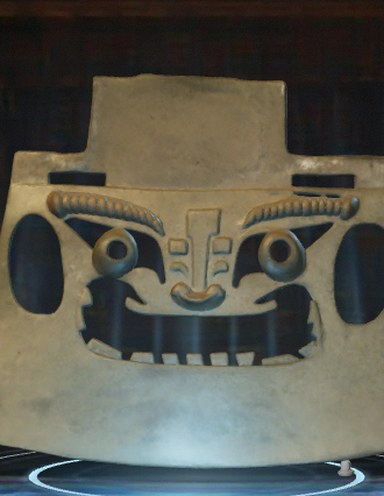
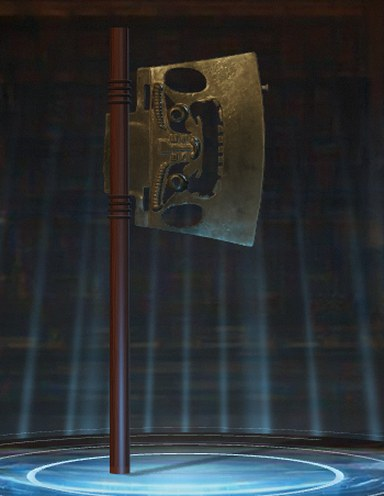
Shang yue: cinematic bronze, reconstructed wooden haft with cord bindings, true-to-life proportions
Claude-Session: https://claude.ai/code/session_01WmiZZA7jwr2YKYoXZXng2Z

diff --git a/shang-yue/index.html b/shang-yue/index.html
@@ -156,7 +156,7 @@ svg.lines{position:absolute;inset:0;width:100%;height:100%;pointer-events:none;o
   <section class="panel" id="inter">
     <h2><svg viewBox="0 0 32 32"><path d="M13 17V6a2 2 0 0 1 4 0v8m0-1a2 2 0 0 1 4 0v2m0-1a2 2 0 0 1 4 0v6c0 5-3 8-8 8s-7-2-9-6l-3-5a2 2 0 0 1 3-2l3 3"/></svg>Student Interaction<button class="grow" type="button" aria-label="Make this card bigger" title="Make bigger"><svg viewBox="0 0 24 24"><path d="M14 4h6v6M10 20H4v-6M20 4l-7 7M4 20l7-7"/></svg></button></h2>
     <button class="irow" data-do="spin"><svg viewBox="0 0 24 24"><circle cx="10" cy="10" r="6"/><path d="M15 15l6 6"/></svg><span><b>Rotate &amp; Explore:</b> Look through the open eyes and mouth of the face.</span></button>
-    <button class="irow" data-do="zoom"><svg viewBox="0 0 24 24"><path d="M12 3 3 8l9 5 9-5zM3 12l9 5 9-5M3 16l9 5 9-5"/></svg><span><b>Zoom In:</b> Find the teeth, the side openings and the tang that fixed it to a handle.</span></button>
+    <button class="irow" data-do="zoom"><svg viewBox="0 0 24 24"><path d="M12 3 3 8l9 5 9-5zM3 12l9 5 9-5M3 16l9 5 9-5"/></svg><span><b>Zoom In:</b> Find the teeth, the side openings, and where the tang passes through the handle.</span></button>
     <button class="irow" data-do="compare"><svg viewBox="0 0 24 24"><path d="M4 20 20 4M7 17l2 2M10 14l2 2M13 11l2 2M16 8l2 2"/></svg><span><b>Compare:</b> How is this like Narmer's mace?</span></button>
     <button class="irow" data-do="context"><svg viewBox="0 0 24 24"><path d="M12 3 3 8l9 5 9-5zM3 12l9 5 9-5M3 16l9 5 9-5"/></svg><span><b>Context:</b> Why might a weapon become a symbol of authority?</span></button>
   </section>
@@ -189,7 +189,7 @@ svg.lines{position:absolute;inset:0;width:100%;height:100%;pointer-events:none;o
   <section class="panel" id="detail" aria-live="polite"><h2><span id="dt"></span><button class="grow" type="button" aria-label="Make this card bigger" title="Make bigger"><svg viewBox="0 0 24 24"><path d="M14 4h6v6M10 20H4v-6M20 4l-7 7M4 20l7-7"/></svg></button><button class="x" id="dclose" aria-label="Close">×</button></h2><div id="db"></div></section>
   <section class="panel" id="help"><h2>How to use the Archive Lab<button class="x" id="hclose" aria-label="Close">×</button></h2>
     <ul><li><b>Drag</b> the axe to turn it. <b>Scroll</b> or pinch to zoom.</li><li><b>Click a label</b>, or click the axe itself, to learn about that part.</li>
-    <li>Desk buttons: <b>spin</b>, <b>zoom</b>, <b>labels on/off</b>, <b>real size</b>, and this help.</li><li>This model was generated by an AI on our own computer (TRELLIS, run on the laptop through Jarvis) from one public-domain photograph of the front of the axe. The front is based on the photo; the thickness and back are the AI's estimate.</li></ul>
+    <li>Desk buttons: <b>spin</b>, <b>zoom</b>, <b>labels on/off</b>, <b>real size</b>, and this help.</li><li>The bronze blade was generated by an AI on our own computer (TRELLIS, run on the laptop through Jarvis) from one public-domain photograph of the front of the axe; its thickness and back are the AI's estimate. The wooden handle and cords were added by us as a reconstruction: the original handle has not survived.</li></ul>
     <p style="font-size:13px;color:var(--dim);margin:6px 0 0">Model generated from "Shang bronze yue axe, Shandong.jpg" by Gary Todd (Wikimedia Commons, CC0). Sources: National Museum of China; Shandong Museum; R. Campbell, <i>Violence, Kinship and the Early Chinese State</i> (2018); R. Bagley, "Shang Archaeology" (1999).</p></section>
   <div class="chips" id="chips"></div>
 </div>
@@ -215,6 +215,7 @@ svg.lines{position:absolute;inset:0;width:100%;height:100%;pointer-events:none;o
     <li><b>Why the grin?</b> Is the face a god, an ancestor, a victim, or a guardian? Its open, toothed mouth has been read as frightening and as smiling.</li>
     <li><b>Displaying violence.</b> How should museums and teachers present objects connected with human sacrifice?</li>
   </ul>
+  <p>In this model we have mounted the blade on a wooden handle, the way such axes were hafted: the tang passes through the handle and cords bind the blade in place. The original handle rotted away long ago, so its length and finish here are our estimate, not evidence.</p>
   <p class="src">3D model generated for WolfOS Archive Lab with TRELLIS (image-to-3D AI, run locally on our own computer) from "Shang bronze yue axe, Shandong.jpg" by Gary Todd, Wikimedia Commons, CC0 (photographed in the National Museum of China). It is not a scan. Sources: National Museum of China and Shandong Museum collection information on the Subutun axes; Zhang Zixun, "A bronze battle-axe that evokes a smile," <i>China Daily</i> (29 March 2011); R. Campbell, <i>Violence, Kinship and the Early Chinese State: The Shang and Their World</i> (Cambridge University Press, 2018); R. Bagley, "Shang Archaeology," in <i>The Cambridge History of Ancient China</i> (1999); Li Feng, <i>Early China: A Social and Cultural History</i> (Cambridge University Press, 2013).</p>
 </template>
 <script type="importmap">{"imports":{"three":"https://cdn.jsdelivr.net/npm/three@0.186.0/build/three.module.js","three/addons/":"https://cdn.jsdelivr.net/npm/three@0.186.0/examples/jsm/"}}</script>
@@ -228,11 +229,11 @@ import { RoomEnvironment } from 'three/addons/environments/RoomEnvironment.js';
 const SW = 1448, SH = 1086;
 // parts: where they sit on the model (front/side/back ray at u,v of its box), the label box on his layout, and the teaching text
 const PARTS = [
-  {"n": "Openwork Face", "s": "Eyes, nose and mouth cut through the bronze.", "dir": "front", "u": 0.5, "v": 0.5, "box": [512, 150, 124, 108], "t": "The face is cut right through the blade, so light shows through the eyes, nose and mouth. The two axes from Subutun are reported to be the only Chinese bronze axes with this design."},
-  {"n": "Grinning Mouth", "s": "A wide mouth full of teeth.", "dir": "front", "u": 0.5, "v": 0.32, "box": [868, 140, 160, 96], "t": "The mouth stretches wide with rows of teeth. It can look like a menacing snarl or a grin; scholars still debate what the face represents."},
-  {"n": "Curved Blade", "s": "The broad cutting edge.", "dir": "front", "u": 0.5, "v": 0.06, "box": [452, 388, 124, 108], "t": "The wide, slightly curved edge is the cutting blade. The axe is heavy and was more a symbol of authority than an everyday weapon."},
-  {"n": "Tang", "s": "Fixed the blade to a wooden handle.", "dir": "front", "u": 0.5, "v": 0.93, "box": [918, 300, 140, 96], "t": "The narrow projection at the top, the tang, slotted into a long wooden handle, which has not survived."},
-  {"n": "Side Openings", "s": "Two oval holes beside the face.", "dir": "front", "u": 0.19, "v": 0.5, "box": [452, 500, 124, 92], "t": "Two oval openings pierce the blade on either side of the face. Openwork like this made the heavy axe lighter and more striking, and showed off the skill of the bronze casters."}
+  {"n": "Openwork Face", "s": "Eyes, nose and mouth cut through the bronze.", "dir": "front", "u": 0.52, "v": 0.77, "box": [868, 140, 160, 96], "t": "The face is cut right through the blade, so light shows through the eyes, nose and mouth, and the wide mouth is full of teeth. The two axes from Subutun are reported to be the only Chinese bronze axes with this design; scholars still debate whether the face is menacing or grinning, and what it represents."},
+  {"n": "Curved Blade", "s": "The broad cutting edge.", "dir": "front", "u": 0.92, "v": 0.72, "box": [918, 300, 140, 96], "t": "The wide, slightly curved edge faced outward, away from the handle. The axe is heavy and was more a symbol of authority than an everyday weapon."},
+  {"n": "Side Openings", "s": "Two oval holes beside the face.", "dir": "front", "u": 0.48, "v": 0.89, "box": [512, 150, 124, 108], "t": "Two oval openings pierce the blade on either side of the face. Openwork like this made the heavy axe lighter and more striking, and showed off the skill of the bronze casters."},
+  {"n": "Tang", "s": "Slotted through the handle.", "dir": "front", "u": 0.15, "v": 0.79, "box": [452, 388, 124, 108], "t": "The narrow projection on the back of the blade, the tang, passed through a slot in the wooden handle. Cords through the blade and around the handle held it tight."},
+  {"n": "Wooden Haft", "s": "Our reconstruction.", "dir": "front", "u": 0.09, "v": 0.27, "box": [452, 500, 124, 92], "t": "Wooden handles almost never survive in Shang tombs, so this haft is our reconstruction. Its length, thickness and dark lacquered finish are informed estimates; the cords binding the blade are shown the way such axes were usually hafted."}
 ];
 const EXTRA = {
  "compare": [
@@ -287,7 +288,7 @@ const fill = new THREE.DirectionalLight('#fff1dd', .75); fill.position.set(1.6, 
 const cam = new THREE.PerspectiveCamera(30, SW / SH, .01, 60);
 const controls = new OrbitControls(cam, canvas); controls.enableDamping = true; controls.enablePan = false;
 controls.minPolarAngle = Math.PI * .36; controls.maxPolarAngle = Math.PI * .53; controls.minDistance = 2.4; controls.maxDistance = 6.5;
-const OH = 0.85, TY = 0.44;
+const OH = 1.0, TY = 0.5;
 const HOME = new THREE.Vector3(0, 0.74, 5.0);
 // the hologram beam the mask stands in
 const beamMat = new THREE.ShaderMaterial({ transparent:true, depthWrite:false, blending:THREE.AdditiveBlending, side:THREE.BackSide, uniforms:{ uT:{ value:0 }, uA:{ value:.6 } },
@@ -325,7 +326,7 @@ async function load() {
   const buf = await fetch('model.glb').then(r => { if (!r.ok) throw new Error('model ' + r.status); return r.arrayBuffer(); });
   const cib = self.createImageBitmap;   // read the model's paint as <img>; a sealed page may refuse fetch() of its blobs
   const gltf = await new Promise((res, rej) => { try { self.createImageBitmap = undefined; } catch (_) {} try { new GLTFLoader().setMeshoptDecoder(MeshoptDecoder).parse(buf, '', res, rej); } finally { try { self.createImageBitmap = cib; } catch (_) {} } });
-  mask = gltf.scene; mask.traverse(o => { if (o.isMesh) { o.material.color.multiplyScalar(1.9); o.material.metalness = Math.min(o.material.metalness, .35); o.material.roughness = .55; } }); const box = new THREE.Box3().setFromObject(mask), sz = box.getSize(new THREE.Vector3()), s = OH / sz.y;
+  mask = gltf.scene; { const b0 = new THREE.Box3().setFromObject(mask), s0 = b0.getSize(new THREE.Vector3()), c0 = b0.getCenter(new THREE.Vector3()); mask.traverse(o => { if (o.isMesh) { o.material.color.multiplyScalar(1.15); o.material.metalness = .8; o.material.roughness = .33; } }); const cv = document.createElement('canvas'); cv.width = 256; cv.height = 1024; const g = cv.getContext('2d'); const grd = g.createLinearGradient(0, 0, 256, 0); grd.addColorStop(0, '#3d2212'); grd.addColorStop(.5, '#7a4a26'); grd.addColorStop(1, '#3d2212'); g.fillStyle = grd; g.fillRect(0, 0, 256, 1024); let sd = 7; const rnd = () => (sd = (sd * 16807) % 2147483647) / 2147483647; for (let i = 0; i < 160; i++) { g.strokeStyle = 'rgba(' + (12 + rnd() * 40 | 0) + ',' + (6 + rnd() * 18 | 0) + ',3,' + (.18 + rnd() * .4).toFixed(2) + ')'; g.lineWidth = .6 + rnd() * 2.6; g.beginPath(); let x = rnd() * 256; g.moveTo(x, 0); for (let y = 0; y <= 1024; y += 24) { x += (rnd() - .5) * 5; g.lineTo(x, y); } g.stroke(); } const tex = new THREE.CanvasTexture(cv); tex.colorSpace = THREE.SRGBColorSpace; tex.anisotropy = 8; const H = s0.y, L = H * 2.7, R = H * .062; const wood = new THREE.MeshStandardMaterial({ map: tex, roughness: .42, metalness: 0, color: 0xffe2c4 }); const haft = new THREE.Mesh(new THREE.CylinderGeometry(R * .9, R, L, 40), wood); const top = c0.x + s0.x / 2 + H * .14; haft.rotation.z = -Math.PI / 2; haft.position.set(top - L / 2, b0.min.y + H * .9, c0.z); mask.add(haft); const cord = new THREE.MeshStandardMaterial({ color: 0x241509, roughness: .9, metalness: 0 }); for (const side of [-1, 1]) for (let k = 0; k < 4; k++) { const r = new THREE.Mesh(new THREE.TorusGeometry(R * 1.04, R * .16, 8, 28), cord); r.rotation.y = Math.PI / 2; r.position.set(c0.x + side * s0.x * (.24 + k * .035), b0.min.y + H * .9, c0.z); mask.add(r); } mask.rotation.z = Math.PI / 2; } const box = new THREE.Box3().setFromObject(mask), sz = box.getSize(new THREE.Vector3()), s = OH / sz.y;
   mask.scale.setScalar(s); baseY = -box.min.y * s + .01; mask.position.set(-(box.min.x + sz.x / 2) * s, baseY, -(box.min.z + sz.z / 2) * s);
   mask.traverse(o => { if (o.isMesh) { o.castShadow = true; o.material.clipShadows = true; if ('envMapIntensity' in o.material) o.material.envMapIntensity = o.material.metalness > .5 ? 1.25 : .85; o.material.clippingPlanes = [clip]; o.material.emissive = new THREE.Color('#5ab8ff'); o.material.emissiveIntensity = 0; } });
   scene.add(mask); mask.updateMatrixWorld(true); findAnchors(); $('loading').remove(); rise = reduce ? 1 : .0001;
@@ -434,7 +435,7 @@ function frame(now) {
     const W = mobile() ? hero.clientWidth : SW, Hh = mobile() ? hero.clientHeight : SH;
     const x1 = (top.x * .5 + .5) * W, y1 = (-top.y * .5 + .5) * Hh, y2 = (-bot.y * .5 + .5) * Hh;
     if (!mobile()) svg += `<path d="M${x1} ${y1}V${y2}M${x1 - 10} ${y1}h20M${x1 - 10} ${y2}h20" stroke="#ffd98a" stroke-width="2"/>`;
-    Object.assign($('size').style, { left:(x1 + 12) + 'px', top:(y2 - 30) + 'px' }); $('size').textContent = "Bronze axe blade"; }
+    Object.assign($('size').style, { left:(x1 + 12) + 'px', top:(y2 - 30) + 'px' }); $('size').textContent = "Bronze axe on a reconstructed handle"; }
   lines.innerHTML = svg;
   requestAnimationFrame(frame);
 }
